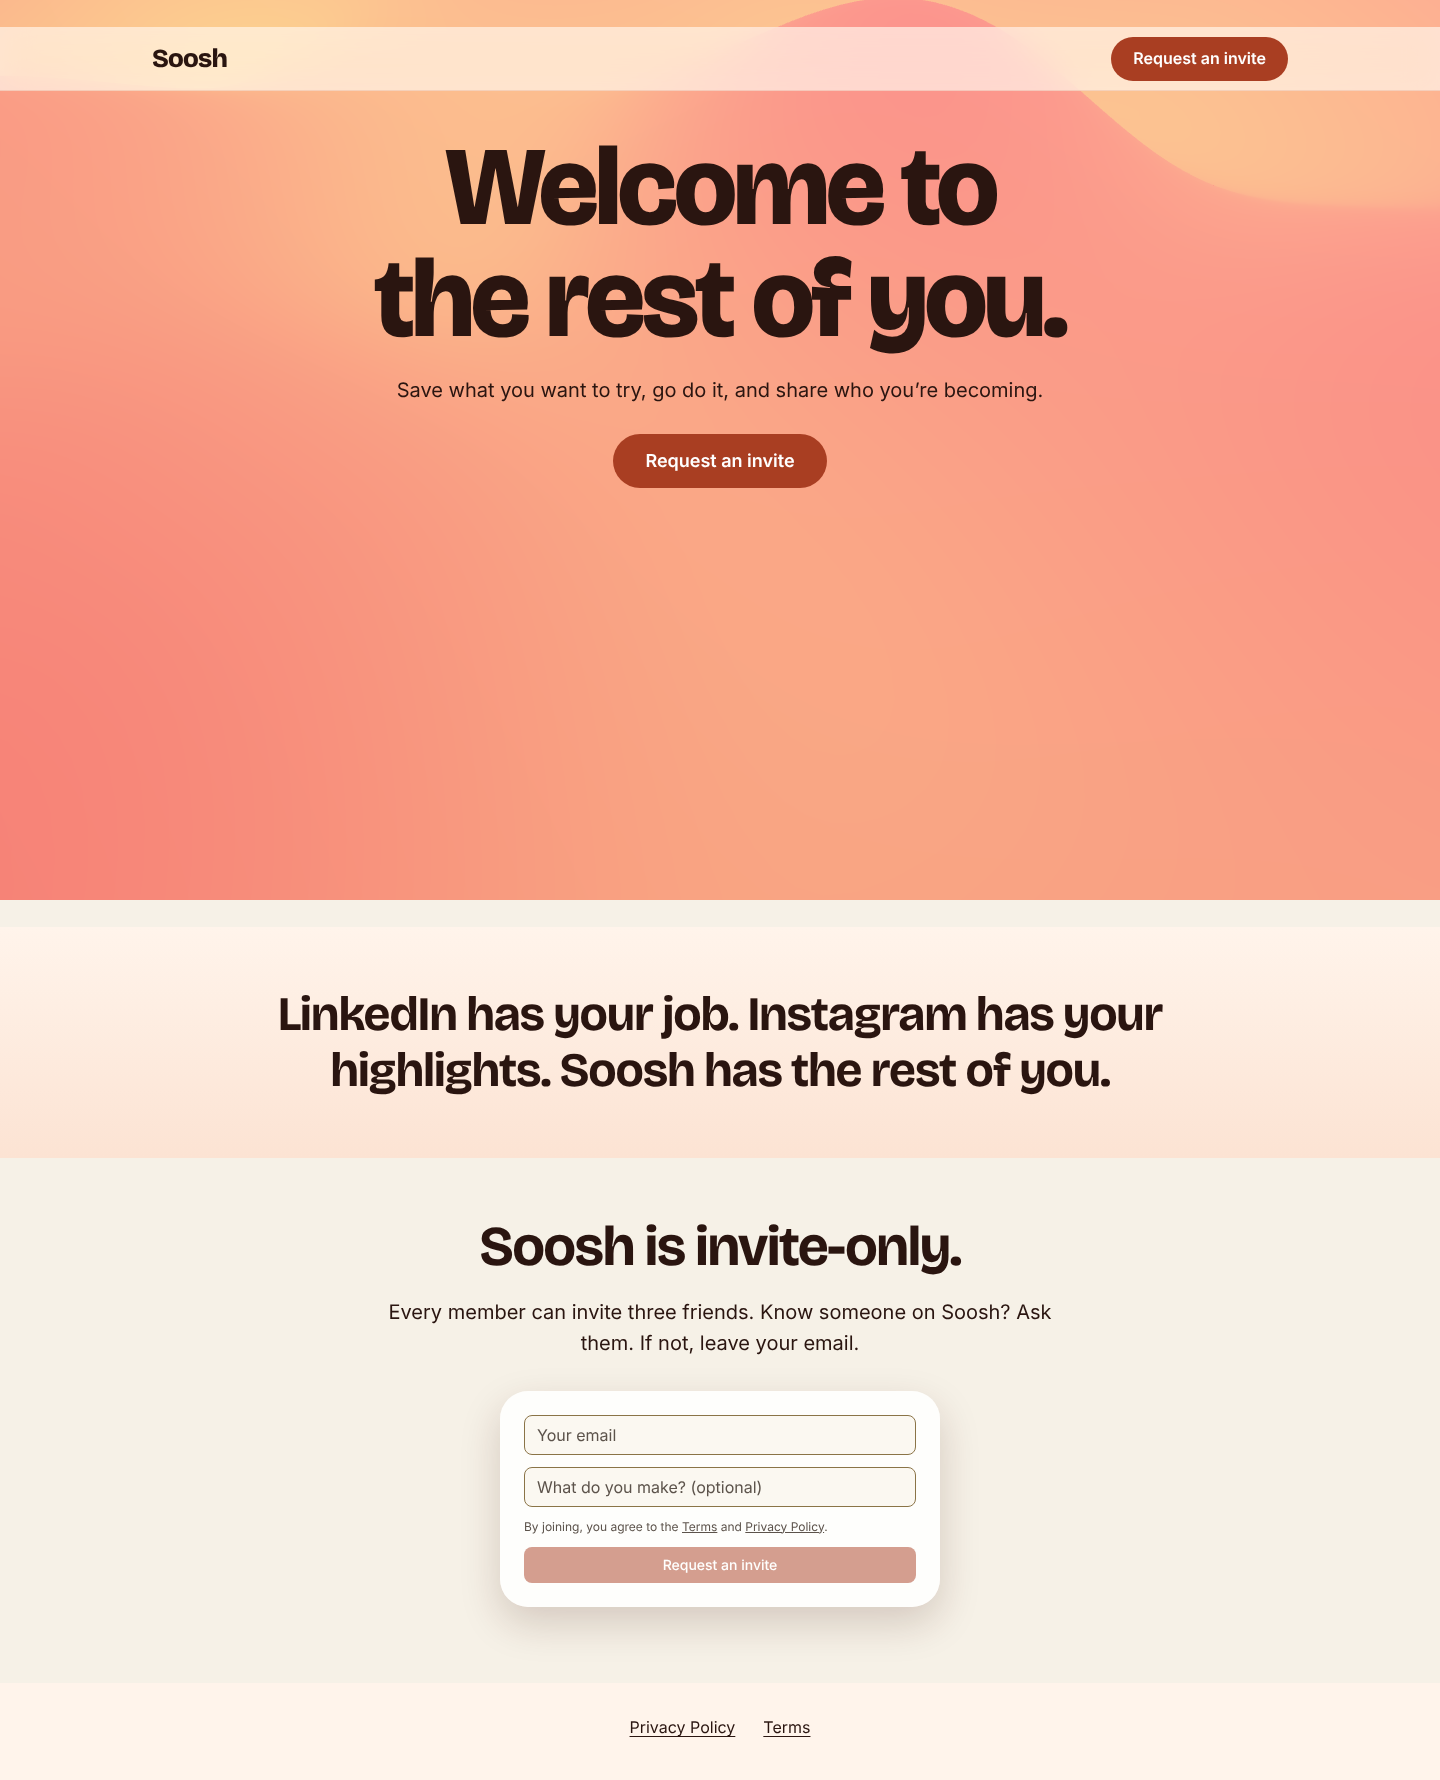
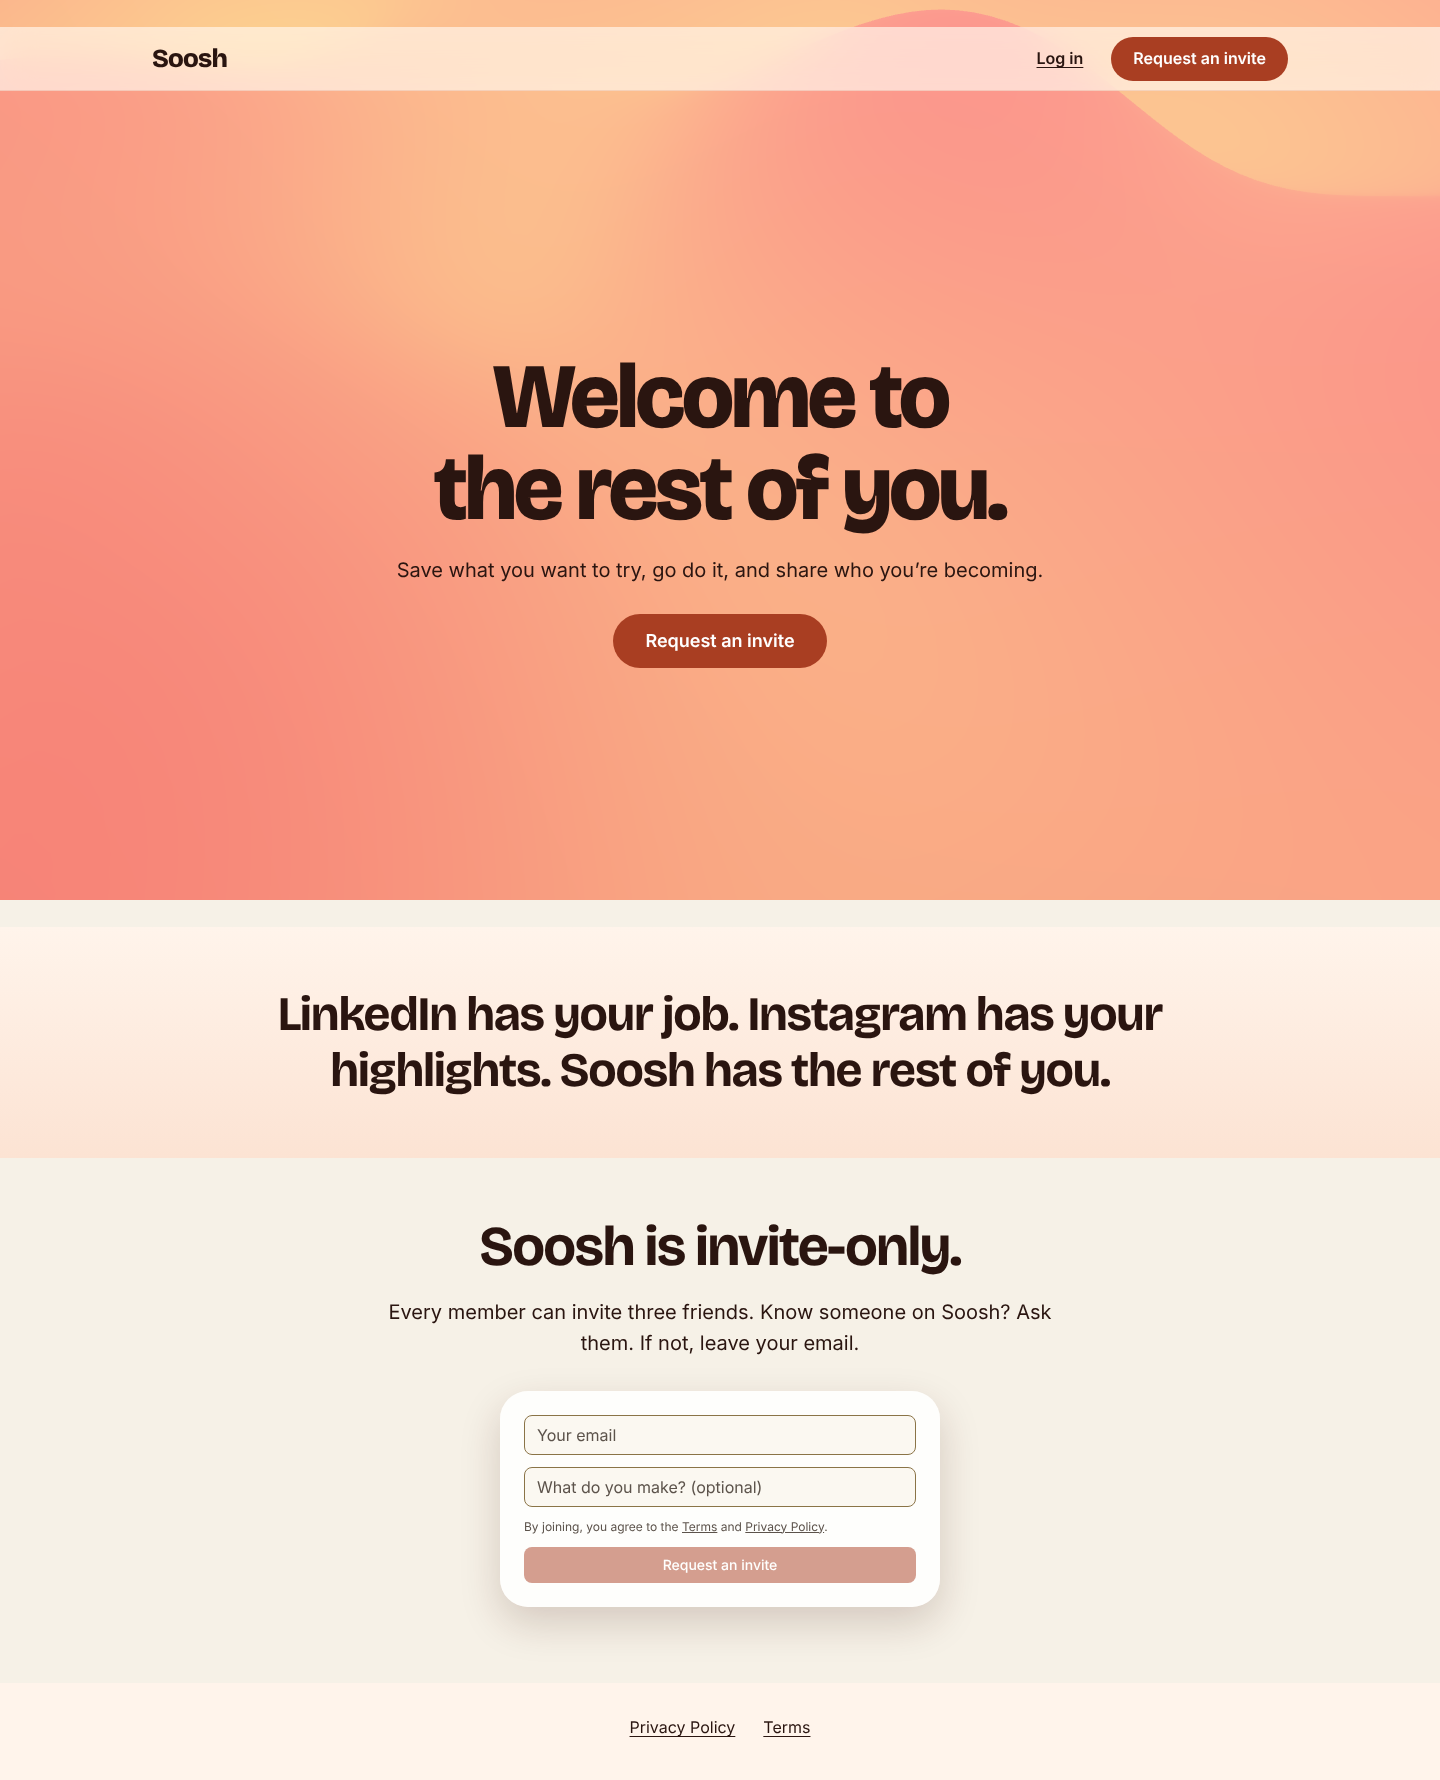
Landing: add Log in link, two-column hero from 1024px
Claude-Session: https://claude.ai/code/session_01PqgTSnrfof1VxRF1nNL3km

diff --git a/src/app/landing/landing.css b/src/app/landing/landing.css
@@ -72,6 +72,19 @@
   text-decoration: none;
 }
 
+.lp-nav-actions { display: flex; align-items: center; gap: 14px; }
+.lp-login {
+  color: var(--lp-ink);
+  font-size: 15px;
+  font-weight: 600;
+  text-decoration: underline;
+  text-underline-offset: 3px;
+  padding: 10px 4px;
+}
+.lp-login:focus-visible { outline: 3px solid var(--lp-ink); outline-offset: 3px; }
+@media (min-width: 768px) { .lp-login { font-size: 16px; } .lp-nav-actions { gap: 24px; } }
+@media (max-width: 380px) { .lp-nav-actions .lp-btn { padding: 0 14px; font-size: 15px; } }
+
 .lp-btn {
   display: inline-flex;
   align-items: center;
@@ -271,4 +284,31 @@
 @media (prefers-reduced-motion: reduce) {
   .lp *, .lp *::before, .lp *::after { animation: none !important; transition: none !important; }
   .lp-reveal { opacity: 1; transform: none; }
+}
+
+/* Hero, two columns from 1024px: text left, phone right, both centered in the
+   screen. Below that the stacked layout above applies. */
+@media (min-width: 1024px) {
+  .lp {
+    --lp-lap: 0;
+    --lp-phone-w: clamp(360px, min(400px, calc((100svh - var(--lp-nav-h) - 48px) / 2.2)), 400px);
+  }
+  .lp-hero {
+    flex-direction: row;
+    align-items: center;
+    justify-content: center;
+    gap: 64px;
+    max-width: 1200px;
+    margin: 0 auto;
+    padding: calc(var(--lp-nav-h) + 24px) 32px 24px;
+    text-align: left;
+  }
+  .lp-hero-text { flex: 1 1 0; max-width: 600px; }
+  .lp-hero h1 { font-size: clamp(52px, 5.6vw, 84px); }
+  .lp-hero-sub { margin-left: 0; }
+  .lp-hero-phone { margin: 0; padding: 0; flex: 0 0 auto; }
+  .lp-hero-solo { text-align: center; }
+  .lp-hero-solo .lp-hero-text { flex: 0 1 auto; max-width: 900px; }
+  .lp-hero-solo h1 { font-size: clamp(52px, 6.4vw, 96px); }
+  .lp-hero-solo .lp-hero-sub { margin-left: auto; }
 }

diff --git a/src/app/landing/Landing.tsx b/src/app/landing/Landing.tsx
@@ -48,7 +48,12 @@ function Nav() {
         <Link to="/" className="lp-logo" aria-label={APP_NAME}>
           {APP_NAME}
         </Link>
-        <RequestInviteButton />
+        <div className="lp-nav-actions">
+          <Link to="/login" className="lp-login">
+            {COPY.logIn}
+          </Link>
+          <RequestInviteButton />
+        </div>
       </div>
     </header>
   );
@@ -186,7 +191,7 @@ export function Landing() {
       <div className="lp-body">
         <Nav />
         <main>
-          <section ref={heroRef} className="lp-hero">
+          <section ref={heroRef} className={`lp-hero ${heroShot ? "" : "lp-hero-solo"}`}>
             <div className="lp-hero-text">
               <h1>{COPY.heroHeadline}</h1>
               <p className="lp-hero-sub">{COPY.heroSub}</p>

diff --git a/src/app/landing/copy.ts b/src/app/landing/copy.ts
@@ -3,6 +3,7 @@ import { APP_NAME } from "../config";
 /** Every line on the signed-out landing page, in one place. */
 export const LANDING_COPY = {
   requestInvite: "Request an invite",
+  logIn: "Log in",
   heroHeadline: "Welcome to the rest of you.",
   heroSub: "Save what you want to try, go do it, and share who you’re becoming.",
   line: `LinkedIn has your job. Instagram has your highlights. ${APP_NAME} has the rest of you.`,

diff --git a/docs/glossary.md b/docs/glossary.md
@@ -118,6 +118,7 @@ In-app labels on the page still follow the glossary above: "Count me in", "Finis
 | Term | Meaning |
 |---|---|
 | Welcome to the rest of you. | Hero headline |
+| Log in | Text link in the landing nav, to /login |
 | Request an invite | Every landing button and the waitlist form button, all going to the waitlist form |
 | Save it. Try it. Share it. | Section heading and the three step labels (website only) |
 | Your friends can come along. | Friends section heading. The button it names is "Count me in" |
